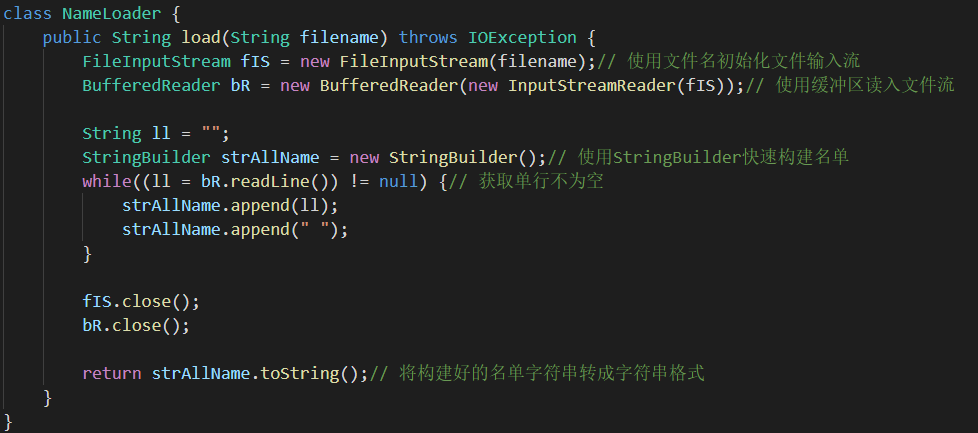
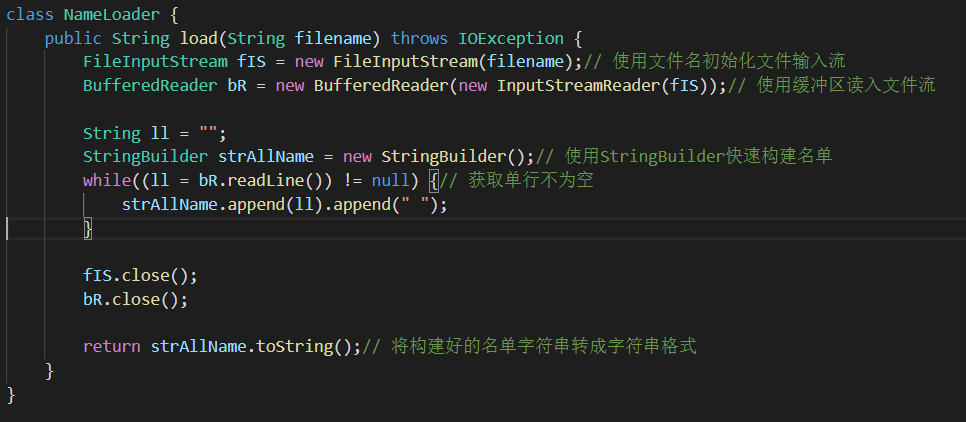
添加task2，修改部分代码逻辑并重新截图

diff --git a/code/RelationBuilding/CooccurrenceCounting.java b/code/RelationBuilding/CooccurrenceCounting.java
@@ -20,10 +20,11 @@ import org.apache.hadoop.util.GenericOptionsParser;
 class CooccurrenceMapper extends Mapper<Object, Text, Text, IntWritable> {
     public void map(Object key, Text value, Context context) throws IOException, InterruptedException {
         String[] names = value.toString().split(" ");
-        HashSet<String> names_set = new HashSet<>(Arrays.asList(names));
+        HashSet<String> names_set = new HashSet<>(Arrays.asList(names)); // 段落中所有人名的集合，目的是去重。
+        // 双重for循环，生成所有不同人名对。
         for (String name1 : names_set) {
             for (String name2 : names_set) {
-                if (name1 != name2) { // Here I think don't need using "equals".
+                if (name1 != name2) { // 这里不需要使用!equals()，只要!=就可以保证。
                     context.write(new Text("<" + name1 + "," + name2 + ">"), new IntWritable(1));
                 }
             }
@@ -31,18 +32,19 @@ class CooccurrenceMapper extends Mapper<Object, Text, Text, IntWritable> {
     }
 }
 
-
-class CooccurrencePartitioner extends HashPartitioner<Text, IntWritable> {
-    public int getPartition(Text key, IntWritable value, int numPartitions) {
-        String term = key.toString().split(",")[0];
-        return super.getPartition(new Text(term), value, numPartitions);
-    }
-}
+// 我觉得不需要Partition
+// class CooccurrencePartitioner extends HashPartitioner<Text, IntWritable> {
+//     public int getPartition(Text key, IntWritable value, int numPartitions) {
+//         String term = key.toString().split(",")[0];
+//         return super.getPartition(new Text(term), value, numPartitions);
+//     }
+// }
 
 
 class CooccurrenceReducer extends Reducer<Text, IntWritable, Text, IntWritable> {
     public void reduce(Text key, Iterable<IntWritable> values, Context context) throws IOException, InterruptedException {
         int sum = 0;
+        //对人名对的同现次数进行求和统计。
         for (IntWritable value : values) {
             sum += value.get();
         }
@@ -63,12 +65,12 @@ public class CooccurrenceCounting {
         Job job = Job.getInstance(conf, "CooccurrenceCounting");
         job.setJarByClass(CooccurrenceCounting.class);
         job.setMapperClass(CooccurrenceMapper.class);
+        // 使用reducer作为combiner，进行优化。
         job.setCombinerClass(CooccurrenceReducer.class);
         job.setReducerClass(CooccurrenceReducer.class);
         job.setOutputKeyClass(Text.class);
         job.setOutputValueClass(IntWritable.class);
-//        job.setNumReduceTasks(10);
-        job.setPartitionerClass(CooccurrencePartitioner.class);
+        job.setNumReduceTasks(10);
 
         FileInputFormat.addInputPath(job, new Path(otherArgs[0]));
         FileOutputFormat.setOutputPath(job, new Path(otherArgs[1]));

diff --git a/report/report.tex b/report/report.tex
@@ -165,8 +165,39 @@ Main 主函数类：
 \par 不做操作，直接将获取的值输出即可。
 
 \subsection{任务二}
-todo
+\subsubsection{设计思路}
+数据输入：每一段中包含的所有人名。
+\par 数据输出：对于所有的段落，统计所有人名对出现在同一段落中的次数。
+\par 使用HashSet进行去重。
+\par 同现次数在int可表示范围内。
 
+\subsubsection{程序分析}
+Main 主函数类：
+\par 这里使用了reducer作为combiner，在mapper之后进行一次合并，减少传输数据量，作为优化。如图\ref{task2-Main}
+\begin{figure}[htbp]
+	\centering
+	\includegraphics[width = 15cm]{task2-Main.png}
+	\caption{主函数类具体实现}
+	\label{task2-Main}
+\end{figure}
+
+\par Mapper类：
+\par 使用HashSet来对于同一段落中所有人名进行去重。再使用双重for循环来发射所有两个不同人名构成的人名对。因为是在HashSet内遍历，这里判断两个String不相等，不需要使用Java的!equals()来判断String内容，只需要判断引用不同即可。如图\ref{task2-mapper}
+\begin{figure}[htbp]
+	\centering
+	\includegraphics[width = 15cm]{task2-mapper.png}
+	\caption{mapper具体实现}
+	\label{task2-mapper}
+\end{figure}
+
+\par Reducer类：
+\par 对于所有的人名对出现次数进行求和。如图\ref{task2-reducer}
+\begin{figure}[htbp]
+	\centering
+	\includegraphics[width = 15cm]{task2-reducer.png}
+	\caption{reducer具体实现}
+	\label{task2-reducer}
+\end{figure}
 \subsection{任务三}
 todo
 

diff --git a/code/PreProcess2/GetCharaName.java b/code/PreProcess2/GetCharaName.java
@@ -34,8 +34,7 @@ class GetNameMapper extends Mapper<Object, Text, Text, NullWritable> {
         StringBuilder sb = new StringBuilder();// 使用stringBuilder快速对单行有效姓名进行连接
         for (String term : value.toString().split(" ")) {
             if (name_set.contains(term)) {
-                sb.append(term);
-                sb.append(" ");
+                sb.append(term).append(" ");
             }
         }
         // 使用空格分词，依次比对查找以后将有效姓名append到StringBuilder上
@@ -66,8 +65,7 @@ class NameLoader {
         String ll = "";
         StringBuilder strAllName = new StringBuilder();// 使用StringBuilder快速构建名单
         while((ll = bR.readLine()) != null) {// 获取单行不为空
-            strAllName.append(ll);
-            strAllName.append(" ");
+            strAllName.append(ll).append(" ");
         }
 
         fIS.close();
